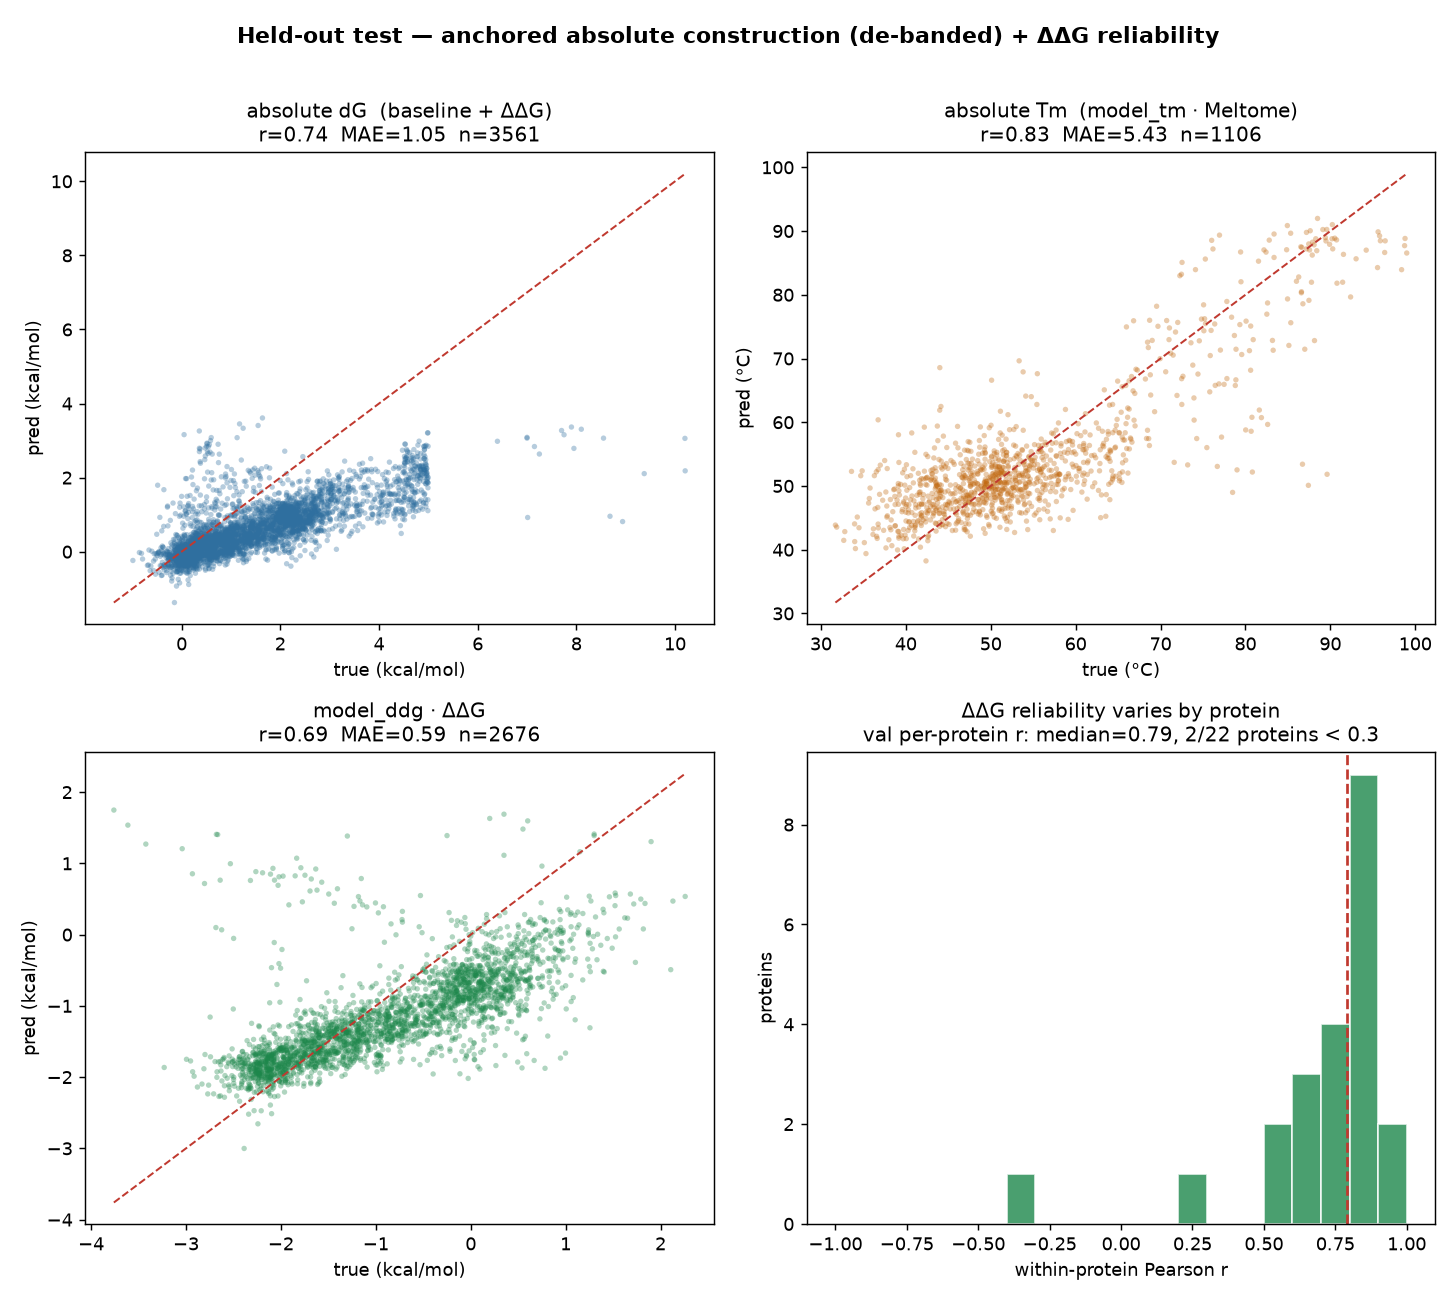
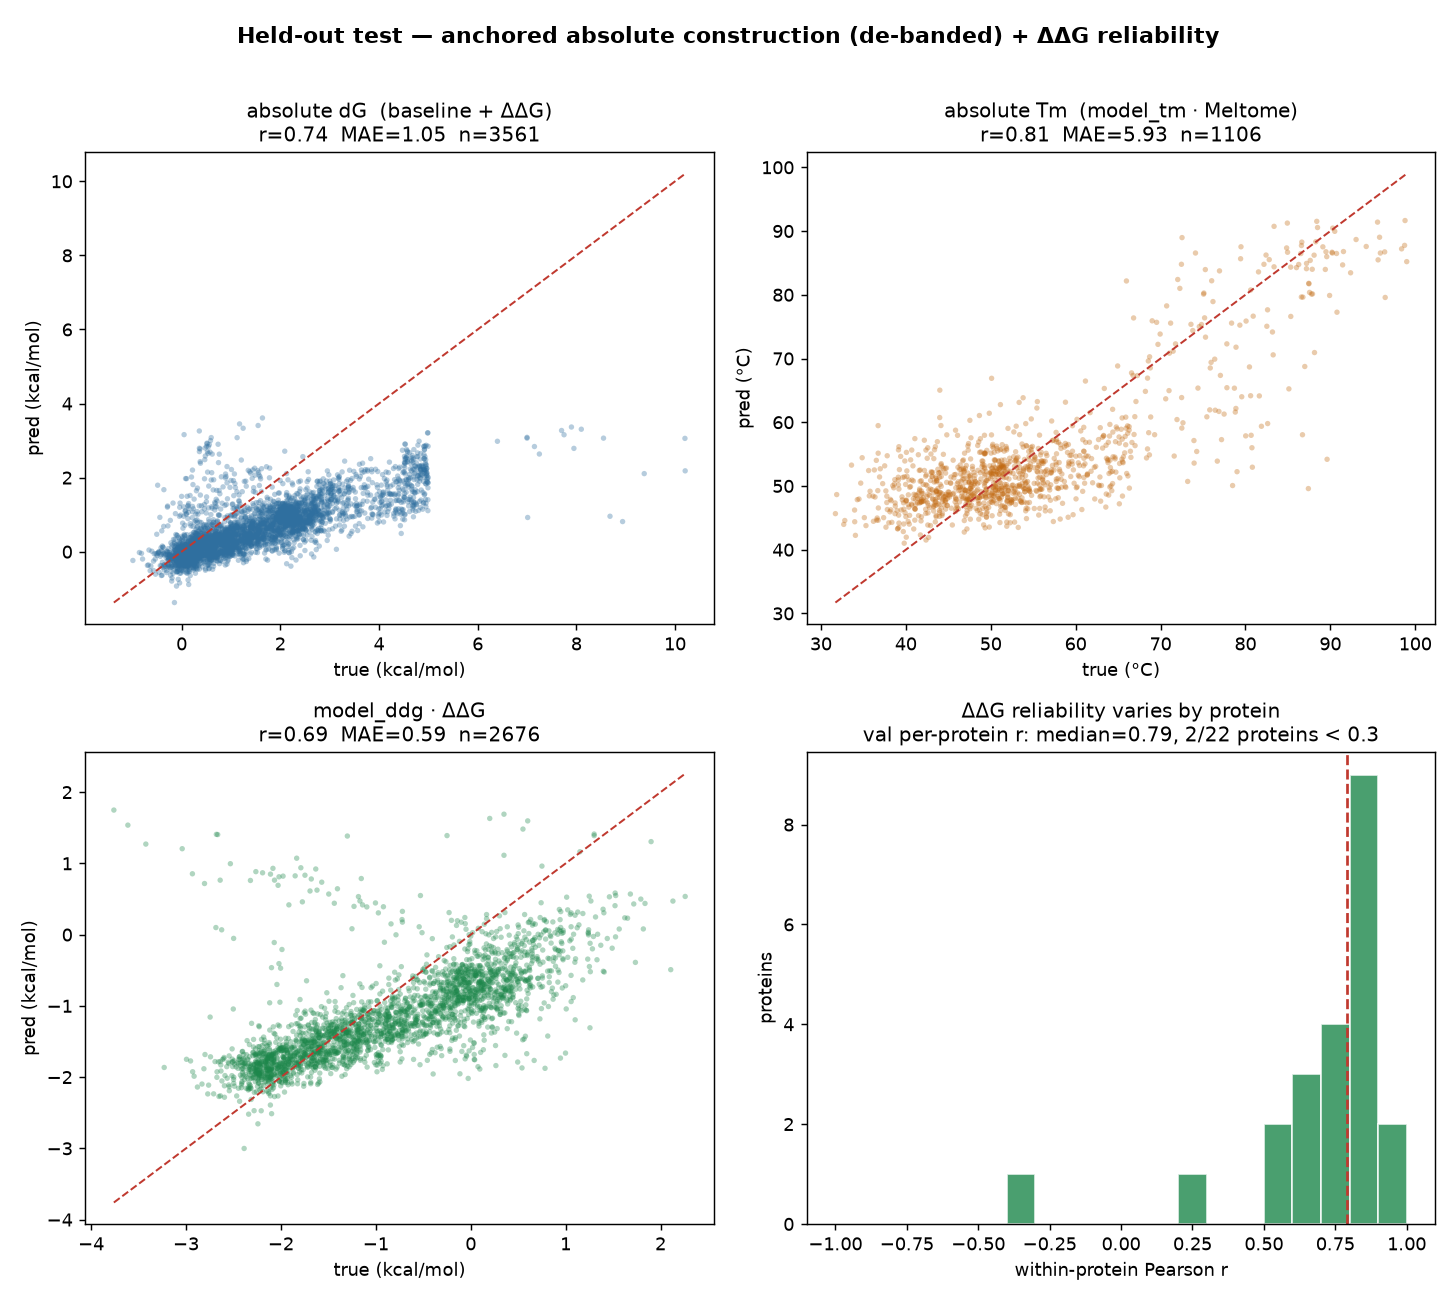
result: update graph with retrained tm model

Changed region(s): [[0.5872, 0.1538, 0.9581, 0.4308], [0.8036, 0.1846, 0.8345, 0.2154]]

diff --git a/backend/checkpoints/plots/all_models_scorecard.md b/backend/checkpoints/plots/all_models_scorecard.md
@@ -10,7 +10,7 @@ model_tm scored on its Meltome held-out split (its valid assay).
 | Model / output | Parent-val | Held-out test |
 |---|---|---|
 | absolute dG = dG(wt)+ΔΔG | r=0.656, MAE=1.003, n=42473, within-protein r=0.76 (22p) | r=0.738, MAE=1.048, n=3561, within-protein r=0.52 (3p) |
-| absolute Tm (model_tm · Meltome) | — | r=0.834, MAE=5.433, n=1106 |
+| absolute Tm (model_tm · Meltome) | — | r=0.810, MAE=5.928, n=1106 |
 | ΔΔG (model_ddg) | r=0.758, MAE=0.596, n=39264, within-protein r=0.79 (22p) | r=0.688, MAE=0.591, n=2676, within-protein r=-0.19 (3p) |
 
 **Per-protein reliability.** model_ddg's ΔΔG is not uniform across proteins: on the validation proteins its within-protein r has median 0.79. The held-out test file covers only a few proteins, so its pooled r is noisier than the 266-protein grouped-CV estimate.
